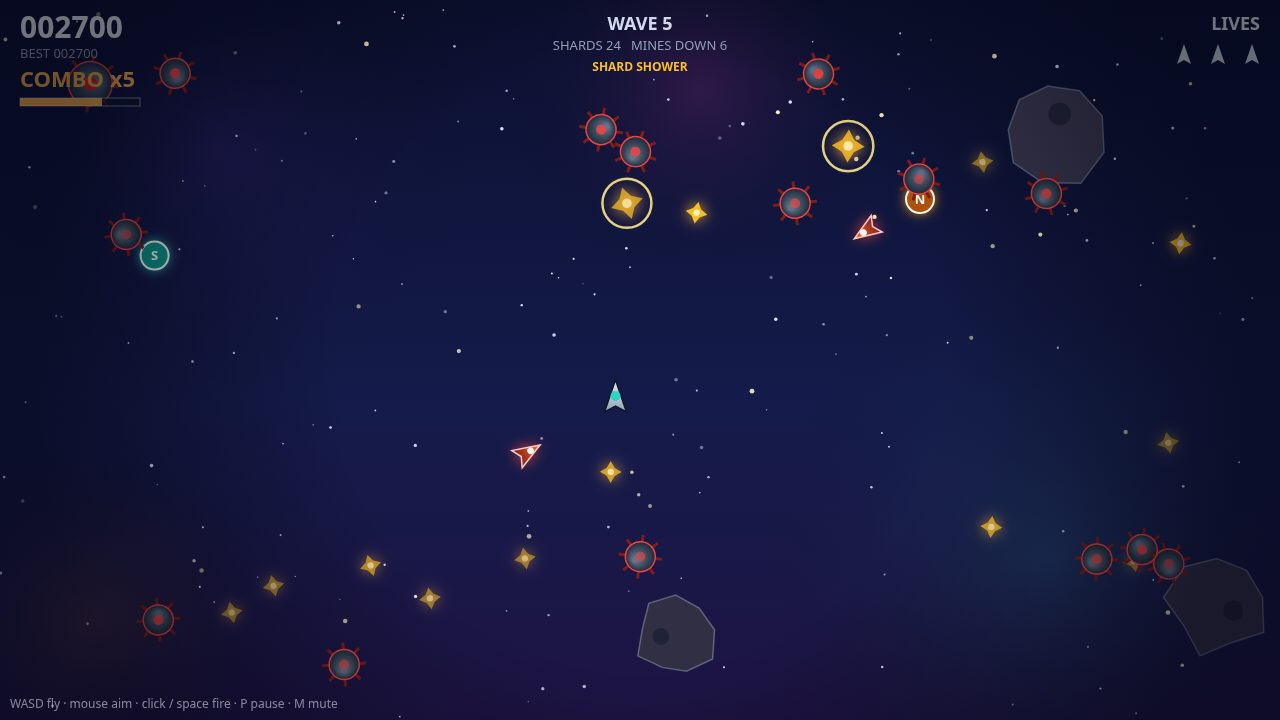
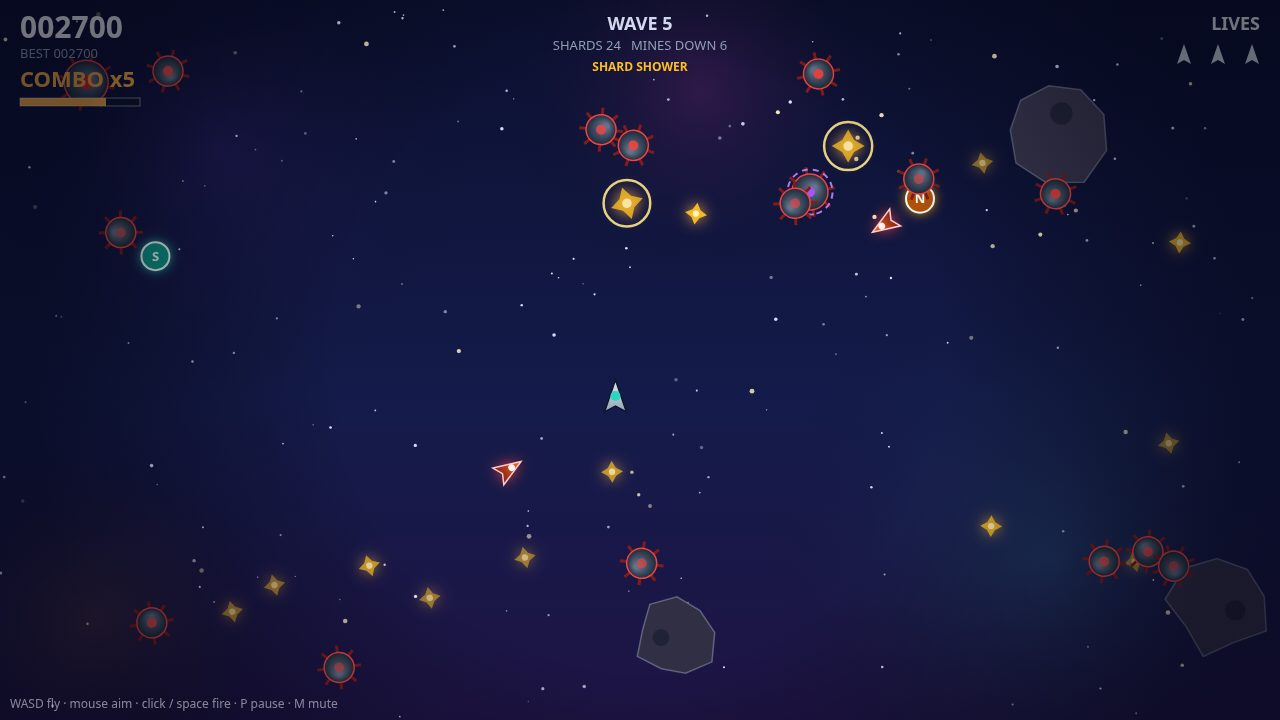
Starlight Salvage v4: splitter (fission) mines that burst into two fast mini-mines

diff --git a/game/src/enemies.js b/game/src/enemies.js
@@ -5,7 +5,7 @@
 import { WORLD_W, WORLD_H, addCombo, addScore, shardValue, showMessage, COMBO_MAX } from './state.js';
 import { dist2 } from './util.js';
 import { hitPlayer, applyPickup } from './player.js';
-import { spawnPickup } from './world.js';
+import { spawnPickup, spawnMiniMine } from './world.js';
 import { updateHunters } from './hunter.js';
 
 function removeAt(list, i) {
@@ -82,7 +82,7 @@ export function updateEnemies(state, dt, audio, spawnParticles, addText, onGameO
         m.hp -= 1;
         spawnParticles('spark', b.x, b.y, 0, 0, '#fde68a');
         if (m.hp <= 0) {
-          const pts = m.heavy ? 250 : 100;
+          const pts = m.heavy ? 250 : m.splitter ? 150 : m.mini ? 50 : 100;
           addScore(state, pts);
           state.minesDestroyed += 1;
           addText(m.x, m.y, '+' + pts, '#fde68a');
@@ -91,8 +91,18 @@ export function updateEnemies(state, dt, audio, spawnParticles, addText, onGameO
           spawnParticles('burst', m.x, m.y, 0, 0, '#f59e0b');
           state.shake = Math.max(state.shake, m.heavy ? 10 : 6);
           removeAt(state.mines, j);
-          // One in eight mines drops a pickup.
-          if (state.rng() < 0.12) {
+          // A cracked splitter bursts into two fast mini-mines instead of
+          // dying quietly — clear them too, or the field fills up.
+          if (m.splitter) {
+            const a = Math.atan2(m.vy, m.vx) || 0;
+            spawnMiniMine(state, m.x, m.y, a + 0.9);
+            spawnMiniMine(state, m.x, m.y, a - 0.9);
+            addText(m.x, m.y - 18, 'SPLIT!', '#c084fc');
+            spawnParticles('burst', m.x, m.y, 0, 0, '#a855f7');
+          }
+          // One in eight mines drops a pickup — never a mini-mine, or the
+          // field would rain pickups every time a splitter bursts.
+          if (!m.mini && state.rng() < 0.12) {
             const roll = state.rng();
             spawnPickup(state, roll < 0.28 ? 'shield' : roll < 0.52 ? 'overdrive' : roll < 0.76 ? 'magnet' : 'nova');
           }
@@ -225,7 +235,8 @@ export function updateEnemies(state, dt, audio, spawnParticles, addText, onGameO
         for (let j = state.mines.length - 1; j >= 0; j--) {
           const m = state.mines[j];
           spawnParticles('burst', m.x, m.y, 0, 0, '#f59e0b');
-          addScore(state, m.heavy ? 250 : 100);
+          // A nova detonates splitters outright — no splitting, just points.
+          addScore(state, m.heavy ? 250 : m.splitter ? 150 : m.mini ? 50 : 100);
           state.minesDestroyed += 1;
           removeAt(state.mines, j);
           cleared++;
@@ -319,11 +330,22 @@ export function drawMine(ctx, m, time) {
   ctx.strokeStyle = '#ef4444';
   ctx.lineWidth = 1.5;
   ctx.stroke();
-  // Hot core: brighter as it pulses, and redder when heavy.
-  ctx.fillStyle = m.heavy ? '#dc2626' : `rgba(239, 68, 68, ${0.5 + pulse * 0.5})`;
+  // Hot core: brighter as it pulses, and redder when heavy. A splitter
+  // wears a violet core and a dashed ring, so it reads as a new threat
+  // from across the field; minis keep the plain red core, just smaller.
+  ctx.fillStyle = m.splitter ? '#a855f7' : m.heavy ? '#dc2626' : `rgba(239, 68, 68, ${0.5 + pulse * 0.5})`;
   ctx.beginPath();
   ctx.arc(0, 0, m.heavy ? 7 : 5, 0, Math.PI * 2);
   ctx.fill();
+  if (m.splitter) {
+    ctx.strokeStyle = 'rgba(192, 132, 252, 0.9)';
+    ctx.lineWidth = 2;
+    ctx.setLineDash([6, 5]);
+    ctx.beginPath();
+    ctx.arc(0, 0, m.r + 6 + Math.sin(m.pulse) * 1.5, 0, Math.PI * 2);
+    ctx.stroke();
+    ctx.setLineDash([]);
+  }
   ctx.restore();
 }
 

diff --git a/game/src/world.js b/game/src/world.js
@@ -73,7 +73,7 @@ export function spawnShard(state, x, y) {
   });
 }
 
-export function spawnMine(state, heavy) {
+export function spawnMine(state, heavy, splitter) {
   const rng = state.rng;
   const edge = pickInt(rng, 0, 3);
   let x, y;
@@ -85,15 +85,35 @@ export function spawnMine(state, heavy) {
   const tx = WORLD_W / 2 + pickRng(rng, -260, 260);
   const ty = WORLD_H / 2 + pickRng(rng, -180, 180);
   const a = Math.atan2(ty - y, tx - x);
-  const speed = heavy ? pickRng(rng, 34, 52) : pickRng(rng, 52, 92);
+  // A splitter (fission mine) is big, slow and tough — two hits to crack,
+  // and it bursts into two fast mini-mines instead of dying quietly.
+  const speed = splitter ? pickRng(rng, 34, 52) : heavy ? pickRng(rng, 34, 52) : pickRng(rng, 52, 92);
   state.mines.push({
-    x, y, r: heavy ? 22 : 15,
+    x, y, r: splitter ? 18 : heavy ? 22 : 15,
     vx: Math.cos(a) * speed,
     vy: Math.sin(a) * speed,
-    hp: heavy ? 3 : 1,
+    hp: splitter ? 2 : heavy ? 3 : 1,
     heavy: !!heavy,
+    splitter: !!splitter,
+    mini: false,
     rot: rng() * Math.PI * 2,
     spin: pickRng(rng, -1.2, 1.2),
+    pulse: rng() * Math.PI * 2,
+  });
+}
+
+// A mini-mine: the fast fragment a splitter bursts into. Small, fragile,
+// worth 50 — and it never splits again or drops a pickup.
+export function spawnMiniMine(state, x, y, angle) {
+  const rng = state.rng;
+  const speed = pickRng(rng, 120, 170);
+  state.mines.push({
+    x, y, r: 9,
+    vx: Math.cos(angle) * speed,
+    vy: Math.sin(angle) * speed,
+    hp: 1, heavy: false, splitter: false, mini: true,
+    rot: rng() * Math.PI * 2,
+    spin: pickRng(rng, -2, 2),
     pulse: rng() * Math.PI * 2,
   });
 }
@@ -192,8 +212,9 @@ export function updateWorld(state, dt, audio) {
       audio.storm();
     } else if (state.wave % 3 === 1) {
       // Mine surge: a wall of mines floods in at once — shoot or weave.
+      // Two of them are splitters, so the surge keeps biting after the first volley.
       state.waveType = 'MINE SURGE';
-      for (let i = 0; i < 8; i++) spawnMine(state, state.rng() < 0.2);
+      for (let i = 0; i < 8; i++) spawnMine(state, i < 2 ? false : state.rng() < 0.2, i < 2);
       showMessage(state, 'MINE SURGE!', 1.8);
       audio.waveClear();
     } else {
@@ -205,12 +226,14 @@ export function updateWorld(state, dt, audio) {
     }
   }
 
-  // Mine drip: faster as waves climb.
+  // Mine drip: faster as waves climb. From wave 3, one drip in seven is a
+  // splitter — the field keeps growing teeth.
   state.mineClock -= dt;
   if (state.mineClock <= 0) {
     const cap = Math.min(4 + state.wave, 14);
     if (state.mines.length < cap) {
-      spawnMine(state, state.rng() < Math.min(0.1 + state.wave * 0.02, 0.35));
+      const split = state.wave >= 3 && state.rng() < 0.15;
+      spawnMine(state, split ? false : state.rng() < Math.min(0.1 + state.wave * 0.02, 0.35), split);
     }
     state.mineClock = Math.max(0.7, 2.4 - state.wave * 0.14);
   }

diff --git a/game/src/main.js b/game/src/main.js
@@ -212,6 +212,8 @@ function arrangeShot(kind) {
     spawnPickup(state, 'shield');
     // A nova pickup, placed where it reads in the frame.
     state.pickups.push({ x: 920, y: 200, vx: 0, vy: 0, r: 14, kind: 'nova', phase: 0 });
+    // A splitter mine, parked where its violet ring reads in the frame.
+    state.mines.push({ x: 880, y: 150, vx: -25, vy: 15, r: 18, hp: 2, heavy: false, splitter: true, mini: false, rot: 0, spin: 0.5, pulse: 0 });
     spawnVault(state);
     state.hunters.push(createHunter(state, 1000, 120));
     // A few seconds of live play so bolts and particles are mid-flight.
@@ -288,6 +290,9 @@ window.__salvage = {
   spawnShard: (x, y) => spawnShard(state, x, y),
   spawnMine: (x, y) => {
     state.mines.push({ x, y, r: 15, vx: 0, vy: 0, hp: 1, heavy: false, rot: 0, spin: 0.5, pulse: 0 });
+  },
+  spawnSplitter: (x, y) => {
+    state.mines.push({ x, y, r: 18, vx: 0, vy: 0, hp: 2, heavy: false, splitter: true, mini: false, rot: 0, spin: 0.5, pulse: 0 });
   },
   triggerStorm: () => {
     state.storm = true;

diff --git a/game/src/hud.js b/game/src/hud.js
@@ -206,8 +206,8 @@ export function drawTitle(ctx, state) {
   ctx.fillStyle = '#cbd5e1';
   ctx.font = '17px system-ui, sans-serif';
   ctx.fillText('Pilot a salvage skiff through the drifting field. Sweep up star-shards,', WORLD_W / 2, 348);
-  ctx.fillText('chain them into combos, crack the vaults, dodge the seekers — and ride out', WORLD_W / 2, 372);
-  ctx.fillText('comet storms, mine surges and shard showers, wave after wave.', WORLD_W / 2, 396);
+  ctx.fillText('chain them into combos, crack the vaults, split fission mines, dodge the seekers —', WORLD_W / 2, 372);
+  ctx.fillText('and ride out comet storms, mine surges and shard showers, wave after wave.', WORLD_W / 2, 396);
   ctx.fillStyle = '#e0e7ff';
   ctx.font = 'bold 16px system-ui, sans-serif';
   ctx.fillText('WASD / ARROWS — fly      MOUSE — aim      CLICK / SPACE — fire', WORLD_W / 2, 420);

diff --git a/README.md b/README.md
@@ -4,7 +4,7 @@
 [![rank](https://make.fun/badge/best-game-01/Krwanz/best-game-01/rank.svg)](https://make.fun/bounty/best-game-01/leaderboard?utm_source=github&utm_medium=readme&utm_campaign=best-game-01)
 [![reward](https://make.fun/badge/best-game-01/Krwanz/best-game-01/reward.svg)](https://make.fun/bounty/best-game-01?utm_source=github&utm_medium=readme&utm_campaign=best-game-01)
 
-**Starlight Salvage** — a top-down 2D canvas arcade game. Pilot a salvage skiff through a drifting asteroid field at dusk: sweep up glowing star-shards and chain them into combos, crack vault shards ringed by mines for +500, dodge seeker drones that hunt the skiff — and telegraph their lunge with a red ring before they shoot in — blast drifting mines, grab a nova pickup to detonate the whole field at once, and ride out the wave cycle: comet storms, mine surges and shard showers, one after another. Three lives, escalating waves, shield, overdrive, magnet and nova pickups, a best score that persists, and a full start–play–pause–game-over loop with WebAudio-synthesised sound. All art is procedural canvas drawing; no network anywhere.
+**Starlight Salvage** — a top-down 2D canvas arcade game. Pilot a salvage skiff through a drifting asteroid field at dusk: sweep up glowing star-shards and chain them into combos, crack vault shards ringed by mines for +500, split fission mines that burst into two fast mini-mines when cracked, dodge seeker drones that hunt the skiff — and telegraph their lunge with a red ring before they shoot in — blast drifting mines, grab a nova pickup to detonate the whole field at once, and ride out the wave cycle: comet storms, mine surges and shard showers, one after another. Three lives, escalating waves, shield, overdrive, magnet and nova pickups, a best score that persists, and a full start–play–pause–game-over loop with WebAudio-synthesised sound. All art is procedural canvas drawing; no network anywhere.
 
 ## Run it
 
@@ -21,7 +21,7 @@ Controls: WASD / arrows to fly, mouse to aim, click or Space to fire, P to pause
 - `game/src/state.js` — the one state object every module shares
 - `game/src/world.js` — parallax starfield, asteroids, vaults, and the wave director (comet storm / mine surge / shard shower cycle)
 - `game/src/player.js` — the skiff: thrust physics, firing, hits, pickups
-- `game/src/enemies.js` — shards, mines, comets, pickups (shield, overdrive, magnet, nova), and collisions
+- `game/src/enemies.js` — shards, mines (normal, heavy, splitter, mini), comets, pickups (shield, overdrive, magnet, nova), and collisions
 - `game/src/hunter.js` — the seeker drone: steering, telegraphed lunge, and drawing
 - `game/src/particles.js` — pooled sparks, bursts, and floating score text
 - `game/src/hud.js` — backdrop, HUD, and the title / pause / game-over screens
